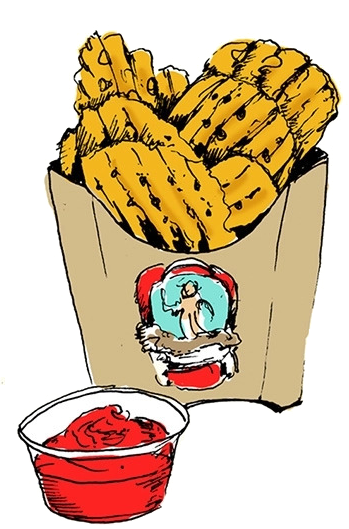
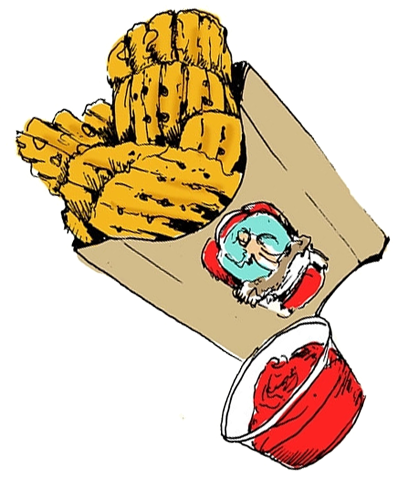
desktop

diff --git a/sketch.js b/sketch.js
@@ -1,3 +1,8 @@
+let bodyImage;
+let bodyWidth;
+let bodyHeight;
+let bodyX;
+let bodyY;
 let faceImage;
 let faceWidth;
 let faceHeight;
@@ -8,66 +13,83 @@ let handsWidth;
 let handsHeight;
 let handsX;
 let handsY;
-let ratioFace = 904 / 929; // faceWidth / faceHeight
+let ratioBody = 968 / 506 // bodyWidth / bodyHeight
+let ratioFace = 587 / 592; // faceWidth / faceHeight
 let ratioHand = 842 / 428; // handsWidth / handsHeight
-let ratioFaceHand = 904 / 842; //faceWidth / handsWidth
+let ratioBodyFace = 968 / 587 // bodyWidth / faceWidth
+let ratioBodyHand = 968 / 842; //faceWidth / handsWidth
 let offsetHand = 126 / 842; // offsetHands / handsWidth
-let foodArray = new Array(5);
+let offsetFaceX = 164 / 587; // offsetFaceX / faceWidth
+let offsetFaceY = -423 / 592 // offsetFaceY / faceHeight
+let foodArray = new Array(4);
 let foodWidth;
 let foodHeight;
 let foodX;
 let foodY;
-let foodRatio = [408 / 312, 349 / 529, 373 / 360, 305 / 401, 224 / 656];
+let foodRatio = [304 / 235, 398 / 478, 451 / 281, 399 / 406];
 let foodIndex;
-let colorArray = new Array(5);
+let colorArray = new Array(4);
 let isDesktop = false;
+const faceMovement = 3;
+let currentFaceMovement = 0;
+let increment = 1;
 
 function preload() {
     foodArray[0] = loadImage('img/burger.png');
     foodArray[1] = loadImage('img/chips.png');
     foodArray[2] = loadImage('img/pizza.png');
-    foodArray[3] = loadImage('img/shake.png');
-    foodArray[4] = loadImage('img/wrap.png');
+    foodArray[3] = loadImage('img/wrap.png');
+    bodyImage = loadImage('img/body.png');
     faceImage = loadImage('img/face.png');
     handsImage = loadImage('img/hands.png');
     colorArray[0] = color(150,206,180);
     colorArray[1] = color(255,238,173);
     colorArray[2] = color(255,111,105);
     colorArray[3] = color(255,204,92);
-    colorArray[4] = color(170,216,176);
 }
 function setup() {
     if (windowWidth > windowHeight) isDesktop = true;
-    foodIndex = Math.floor(random(0, 5));
+    foodIndex = Math.floor(random(0, 4));
   	createCanvas(windowWidth, windowHeight);
-    frameRate(30);
+    frameRate(8);
     background(colorArray[foodIndex]);
 }
 
 function draw() {
+    background(colorArray[foodIndex]);
+
     if (isDesktop) { // on desktop
-        // 1 - face
+        // 0 - body
         // height = 2/3 windowHeight
-        faceHeight = windowHeight * 2 / 3;
-        faceWidth = faceHeight * ratioFace;
+        bodyHeight = windowHeight / 3;
+        bodyWidth = bodyHeight * ratioBody;
         // x axis align center
-        faceX = (windowWidth - faceWidth) / 2;
+        bodyX = (windowWidth - bodyWidth) / 2;
         // y axis align bottom
-        faceY = windowHeight - faceHeight;
+        bodyY = windowHeight - bodyHeight;
         // load image
-        image(faceImage, faceX, faceY, faceWidth, faceHeight);
+        image(bodyImage, bodyX, bodyY, bodyWidth, bodyHeight);
+        // 1 - face
+        faceWidth = bodyWidth / ratioBodyFace;
+        faceHeight = faceWidth / ratioFace;
+        currentFaceMovement += increment; 
+        if (currentFaceMovement % faceMovement == 0) increment = -increment;
+        faceX = bodyX + offsetFaceX * faceWidth;
+        faceY = bodyY + offsetFaceY * faceHeight;
+        // load image
+        image(faceImage, faceX, faceY + currentFaceMovement, faceWidth, faceHeight);
         // 2 - food
         // width = 1/2 faceWidth
-        foodWidth = faceWidth / 2;
+        foodWidth = bodyWidth * 3 / 5;
         foodHeight = foodWidth / foodRatio[foodIndex];
-        foodX = faceX + 1 * faceWidth / 4;
-        foodY = faceY + faceHeight / 3;
+        foodX = bodyX + 1 * bodyWidth / 6;
+        foodY = bodyY;
         image (foodArray[foodIndex], foodX, foodY, foodWidth, foodHeight);
         // 3 - hands
-        handsWidth = faceWidth / ratioFaceHand;
+        handsWidth = bodyWidth / ratioBodyHand;
         handsHeight = handsWidth / ratioHand;
         // x axis faceX + offset
-        handsX = faceX + offsetHand * handsWidth;
+        handsX = bodyX + offsetHand * handsWidth;
         // y axis align bottom
         handsY = windowHeight - handsHeight;
         // load image
